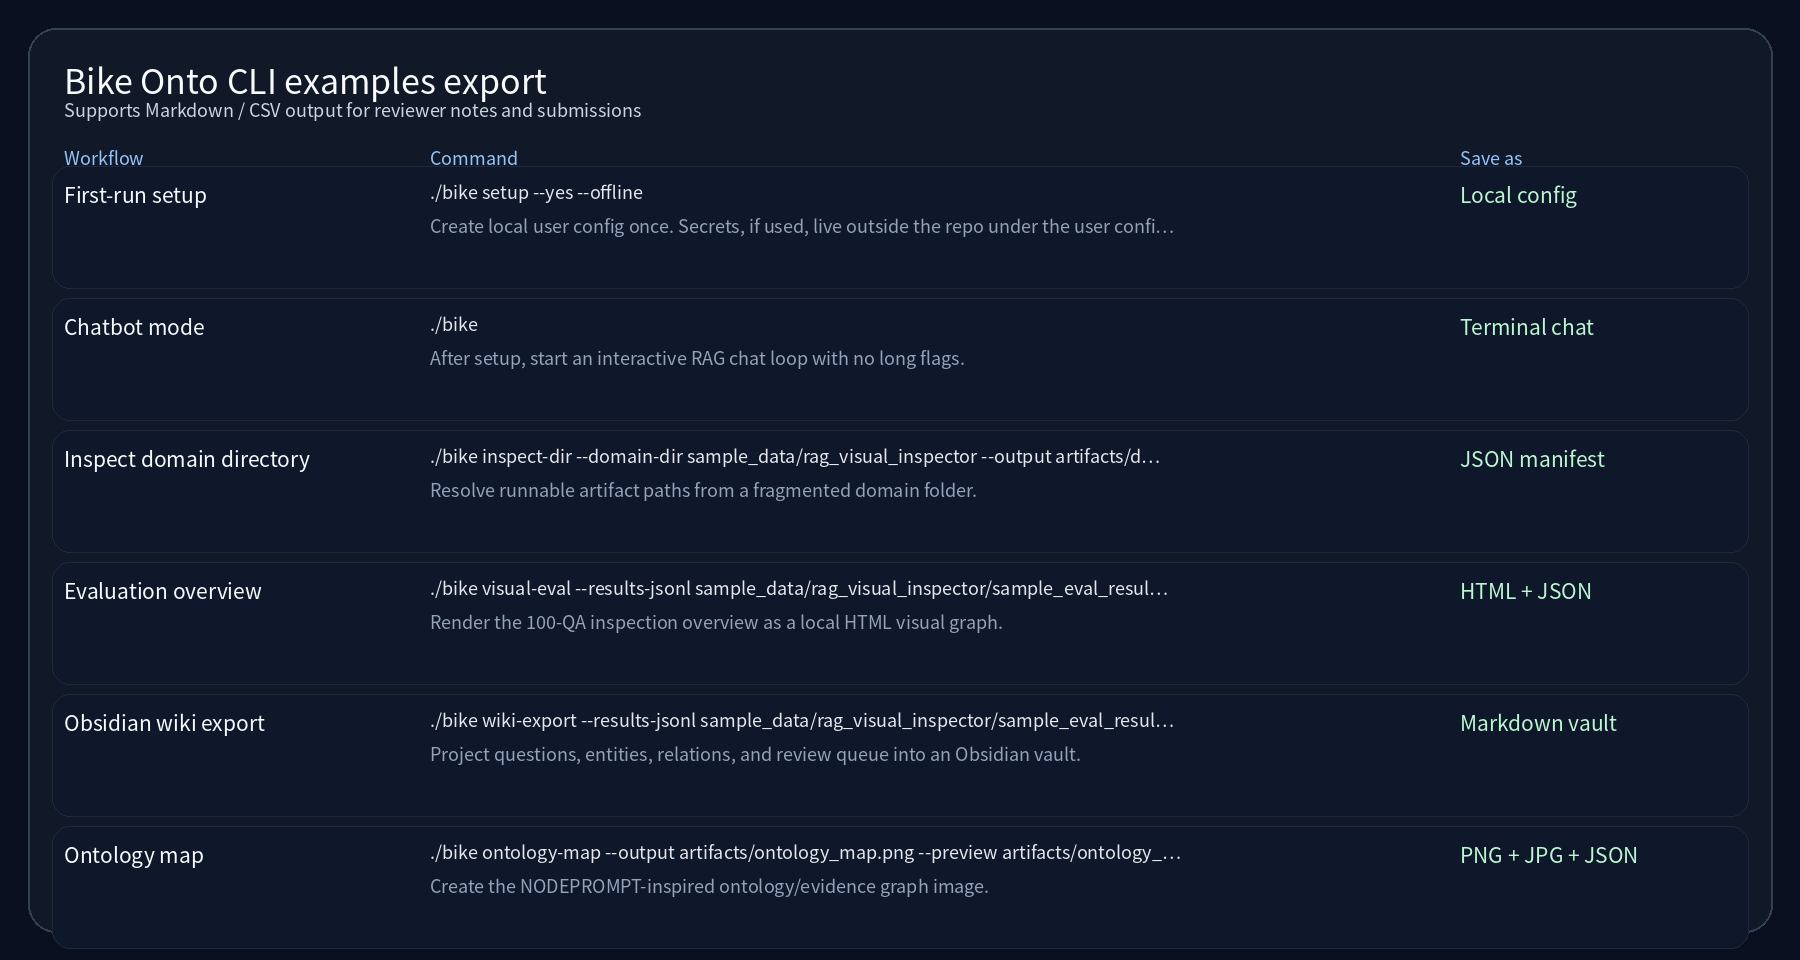
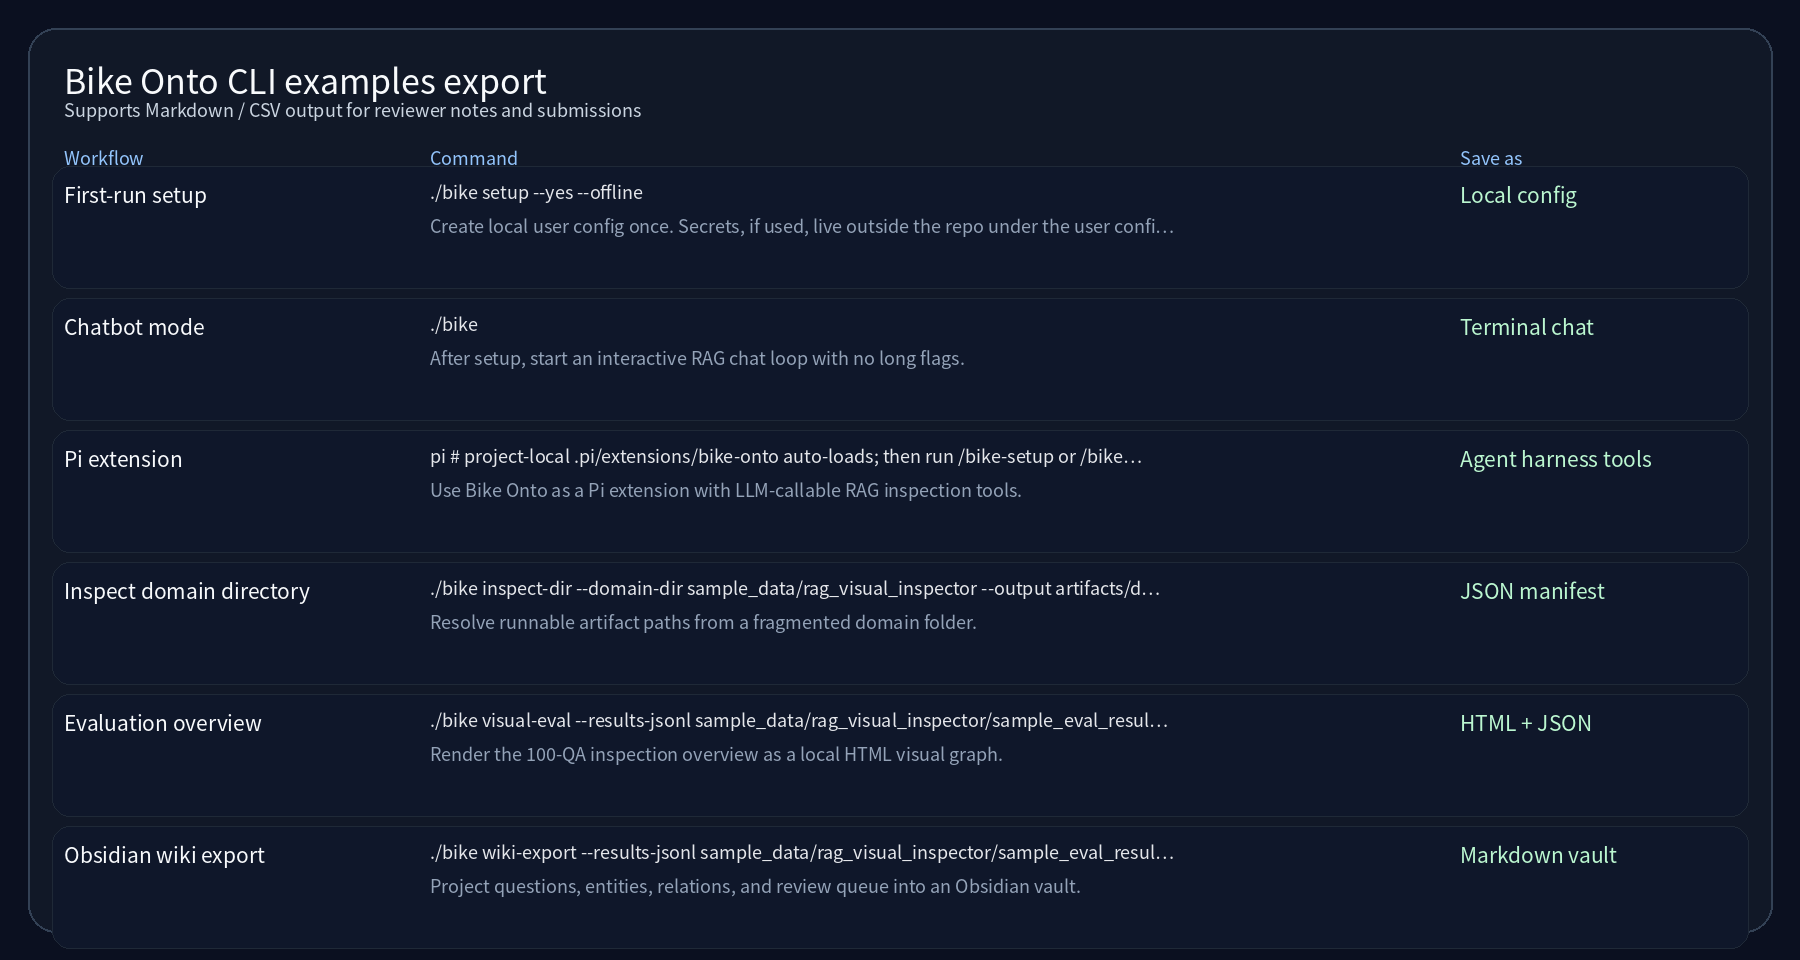
Add Pi extension for RAG inspection tools

diff --git a/.pi/extensions/bike-onto/index.ts b/.pi/extensions/bike-onto/index.ts
@@ -1,0 +1,239 @@
+// Timestamp: 2026-05-19 14:50:00
+
+import type { ExtensionAPI, ExtensionContext } from "@earendil-works/pi-coding-agent";
+import { Type } from "typebox";
+import { spawn } from "node:child_process";
+import { existsSync } from "node:fs";
+import { join } from "node:path";
+
+interface BikeRunResult {
+	code: number;
+	stdout: string;
+	stderr: string;
+	command: string[];
+}
+
+const MAX_OUTPUT_CHARS = 24_000;
+
+function clipOutput(value: string): string {
+	if (value.length <= MAX_OUTPUT_CHARS) return value;
+	return value.slice(0, MAX_OUTPUT_CHARS) + "\n... [truncated by Bike Onto pi extension]";
+}
+
+function bikeCommand(cwd: string): { command: string; argsPrefix: string[] } {
+	const bike = join(cwd, "bike");
+	const bikePs1 = join(cwd, "bike.ps1");
+	const cliRelativePath = "tools/scripts/rag/general_rag_cli.py";
+	const cli = join(cwd, ...cliRelativePath.split("/"));
+	if (process.platform === "win32" && existsSync(bikePs1)) {
+		return { command: "powershell.exe", argsPrefix: ["-ExecutionPolicy", "Bypass", "-File", bikePs1] };
+	}
+	if (existsSync(bike)) {
+		return { command: bike, argsPrefix: [] };
+	}
+	return { command: process.env.PYTHON || "python3", argsPrefix: [cli] };
+}
+
+function runBike(ctx: ExtensionContext, args: string[], options: { input?: string; env?: NodeJS.ProcessEnv } = {}): Promise<BikeRunResult> {
+	const resolved = bikeCommand(ctx.cwd);
+	const fullArgs = [...resolved.argsPrefix, ...args];
+	return new Promise((resolve, reject) => {
+		const child = spawn(resolved.command, fullArgs, {
+			cwd: ctx.cwd,
+			env: { ...process.env, ...(options.env || {}) },
+			stdio: [options.input ? "pipe" : "ignore", "pipe", "pipe"],
+		});
+		let stdout = "";
+		let stderr = "";
+		child.stdout.on("data", (chunk) => {
+			stdout += chunk.toString();
+		});
+		child.stderr.on("data", (chunk) => {
+			stderr += chunk.toString();
+		});
+		child.on("error", reject);
+		child.on("close", (code) => {
+			resolve({
+				code: code ?? 0,
+				stdout: clipOutput(stdout),
+				stderr: clipOutput(stderr),
+				command: [resolved.command, ...fullArgs],
+			});
+		});
+		if (options.input && child.stdin) {
+			child.stdin.write(options.input);
+			child.stdin.end();
+		}
+	});
+}
+
+function toolText(result: BikeRunResult): string {
+	const body = result.stdout.trim() || result.stderr.trim() || "(no output)";
+	return result.code === 0 ? body : `Bike Onto command failed (${result.code})\n\n${body}`;
+}
+
+function jsonFromStdout(result: BikeRunResult): unknown {
+	try {
+		return JSON.parse(result.stdout);
+	} catch {
+		return undefined;
+	}
+}
+
+function registerCommands(pi: ExtensionAPI) {
+	pi.registerCommand("bike-setup", {
+		description: "Run Bike Onto first-run setup wizard for this project",
+		handler: async (_args, ctx) => {
+			if (!ctx.hasUI) {
+				const result = await runBike(ctx, ["setup", "--yes", "--offline"]);
+				ctx.ui.notify(toolText(result), result.code === 0 ? "info" : "error");
+				return;
+			}
+			const mode = await ctx.ui.select("Bike Onto setup mode", ["offline", "live"]);
+			if (!mode) return;
+			const args = ["setup", "--yes", mode === "live" ? "--live" : "--offline"];
+			if (mode === "live" && !process.env.OPENAI_API_KEY) {
+				ctx.ui.notify("OPENAI_API_KEY is not set. Set it before launching pi, then run /bike-setup again.", "warning");
+				return;
+			}
+			const result = await runBike(ctx, args);
+			ctx.ui.notify(toolText(result), result.code === 0 ? "info" : "error");
+		},
+	});
+
+	pi.registerCommand("bike-status", {
+		description: "Show Bike Onto local setup status without printing secrets",
+		handler: async (_args, ctx) => {
+			const result = await runBike(ctx, ["status"]);
+			ctx.ui.notify(toolText(result), result.code === 0 ? "info" : "error");
+		},
+	});
+
+	pi.registerCommand("bike-tools", {
+		description: "List Bike Onto extension tools",
+		handler: async (_args, ctx) => {
+			ctx.ui.notify(
+				[
+					"Bike Onto tools:",
+					"- bike_rag_answer: answer a question with inspection payload",
+					"- bike_visual_inspect: create single-answer Visual Inspector HTML",
+					"- bike_ontology_map: create NODEPROMPT-inspired ontology map",
+					"- bike_wiki_export: export evaluation results as Obsidian wiki notes",
+					"Config/secrets live outside repo under ~/.bike-onto",
+				].join("\n"),
+				"info",
+			);
+		},
+	});
+}
+
+function registerTools(pi: ExtensionAPI) {
+	pi.registerTool({
+		name: "bike_rag_answer",
+		label: "Bike Onto RAG Answer",
+		description: "Ask Bike Onto one RAG inspection question and return the grounded answer payload.",
+		promptSnippet: "Use bike_rag_answer when the user asks a domain/RAG question that should be grounded with Bike Onto evidence.",
+		promptGuidelines: [
+			"Prefer this tool over ad-hoc guessing for Bike Onto or RAG inspection questions.",
+			"Summarize the answer, review gate, and key evidence after the tool returns.",
+		],
+		parameters: Type.Object({
+			question: Type.String({ description: "User question to ask Bike Onto" }),
+			category: Type.Optional(Type.String({ description: "Optional answer policy/category hint" })),
+			verbose: Type.Optional(Type.Boolean({ description: "Return verbose terminal sections in addition to JSON details", default: false })),
+		}),
+		async execute(_toolCallId, params, _signal, _onUpdate, ctx) {
+			const args = ["ask", params.question, "--json"];
+			if (params.category) args.push("--category", params.category);
+			const result = await runBike(ctx, args);
+			const details = jsonFromStdout(result) ?? { stdout: result.stdout, stderr: result.stderr };
+			if (params.verbose) {
+				const textResult = await runBike(ctx, ["ask", params.question, "--verbose"]);
+				return {
+					content: [{ type: "text", text: toolText(textResult) }],
+					details: { payload: details, command: result.command, verboseCommand: textResult.command },
+				};
+			}
+			return {
+				content: [{ type: "text", text: toolText(result) }],
+				details: { payload: details, command: result.command },
+			};
+		},
+	});
+
+	pi.registerTool({
+		name: "bike_visual_inspect",
+		label: "Bike Onto Visual Inspector",
+		description: "Generate a single-answer RAG Visual Inspector HTML artifact for a question.",
+		parameters: Type.Object({
+			question: Type.String({ description: "Question to answer and inspect" }),
+			output: Type.Optional(Type.String({ description: "Output HTML path", default: "artifacts/pi_extension/visual_inspector.html" })),
+		}),
+		async execute(_toolCallId, params, _signal, _onUpdate, ctx) {
+			const output = params.output || `artifacts/pi_extension/visual_${Date.now()}.html`;
+			const graphJson = output.replace(/\.html?$/i, ".visual_graph.json");
+			const result = await runBike(ctx, ["visual", "--question", params.question, "--output", output, "--graph-json", graphJson, "--json"]);
+			return {
+				content: [{ type: "text", text: toolText(result) }],
+				details: { payload: jsonFromStdout(result), output, graphJson, command: result.command },
+			};
+		},
+	});
+
+	pi.registerTool({
+		name: "bike_ontology_map",
+		label: "Bike Onto Ontology Map",
+		description: "Generate a NODEPROMPT-inspired ontology/evidence graph image artifact.",
+		parameters: Type.Object({
+			output: Type.Optional(Type.String({ description: "Output PNG path", default: "artifacts/pi_extension/ontology_map.png" })),
+			preview: Type.Optional(Type.String({ description: "Optional preview JPG path" })),
+			graphJson: Type.Optional(Type.String({ description: "Optional graph JSON path" })),
+		}),
+		async execute(_toolCallId, params, _signal, _onUpdate, ctx) {
+			const output = params.output || "artifacts/pi_extension/ontology_map.png";
+			const preview = params.preview || output.replace(/\.png$/i, "_preview.jpg");
+			const graphJson = params.graphJson || output.replace(/\.png$/i, ".json");
+			const result = await runBike(ctx, ["ontology-map", "--output", output, "--preview", preview, "--graph-json", graphJson, "--json"]);
+			return {
+				content: [{ type: "text", text: toolText(result) }],
+				details: { payload: jsonFromStdout(result), output, preview, graphJson, command: result.command },
+			};
+		},
+	});
+
+	pi.registerTool({
+		name: "bike_wiki_export",
+		label: "Bike Onto Wiki Export",
+		description: "Export RAG evaluation results into an Obsidian ontology-like wiki vault.",
+		parameters: Type.Object({
+			resultsJsonl: Type.String({ description: "Evaluation results JSONL path" }),
+			graphJson: Type.Optional(Type.String({ description: "Optional VisualGraphPayload JSON path" })),
+			vault: Type.String({ description: "Output Obsidian vault path" }),
+			runId: Type.Optional(Type.String({ description: "Run identifier", default: "pi_extension_run" })),
+		}),
+		async execute(_toolCallId, params, _signal, _onUpdate, ctx) {
+			if (ctx.hasUI) {
+				const ok = await ctx.ui.confirm("Bike Onto wiki export", `Write Obsidian wiki notes to ${params.vault}?`);
+				if (!ok) {
+					return { content: [{ type: "text", text: "Wiki export cancelled by user." }], details: { cancelled: true } };
+				}
+			}
+			const args = ["wiki-export", "--results-jsonl", params.resultsJsonl, "--vault", params.vault, "--run-id", params.runId || "pi_extension_run", "--json"];
+			if (params.graphJson) args.push("--graph-json", params.graphJson);
+			const result = await runBike(ctx, args);
+			return {
+				content: [{ type: "text", text: toolText(result) }],
+				details: { payload: jsonFromStdout(result), command: result.command },
+			};
+		},
+	});
+}
+
+export default function bikeOntoExtension(pi: ExtensionAPI) {
+	registerCommands(pi);
+	registerTools(pi);
+
+	pi.on("session_start", async (_event, ctx) => {
+		ctx.ui.setStatus("bike-onto", "Bike Onto extension loaded");
+	});
+}

diff --git a/tools/tests/test_pi_extension.py b/tools/tests/test_pi_extension.py
@@ -1,0 +1,33 @@
+# Timestamp: 2026-05-19 14:47:00
+
+from __future__ import annotations
+
+from pathlib import Path
+
+
+REPO_ROOT = Path(__file__).resolve().parents[2]
+EXTENSION_PATH = REPO_ROOT / ".pi" / "extensions" / "bike-onto" / "index.ts"
+
+
+def test_bike_onto_pi_extension_registers_commands_and_tools() -> None:
+    source = EXTENSION_PATH.read_text(encoding="utf-8")
+
+    for command in ["bike-setup", "bike-status", "bike-tools"]:
+        assert f'pi.registerCommand("{command}"' in source
+
+    for tool in ["bike_rag_answer", "bike_visual_inspect", "bike_ontology_map", "bike_wiki_export"]:
+        assert f'name: "{tool}"' in source
+
+    assert "ctx.ui.confirm" in source
+    assert "ctx.ui.select" in source
+    assert "runBike" in source
+    assert "tools/scripts/rag/general_rag_cli.py" in source
+
+
+def test_bike_onto_pi_extension_keeps_secret_handling_outside_repo() -> None:
+    source = EXTENSION_PATH.read_text(encoding="utf-8")
+
+    assert "OPENAI_API_KEY" in source
+    assert "~/.bike-onto" in source
+    assert "apiKey" not in source
+    assert "sk-" not in source

diff --git a/tools/scripts/rag/general_rag_cli.py b/tools/scripts/rag/general_rag_cli.py
@@ -1458,6 +1458,12 @@ def build_cli_example_rows() -> list[dict[str, str]]:
             "save_as": "Terminal chat",
         },
         {
+            "workflow": "Pi extension",
+            "command": "pi  # project-local .pi/extensions/bike-onto auto-loads; then run /bike-setup or /bike-tools",
+            "purpose": "Use Bike Onto as a Pi extension with LLM-callable RAG inspection tools.",
+            "save_as": "Agent harness tools",
+        },
+        {
             "workflow": "Inspect domain directory",
             "command": "./bike inspect-dir --domain-dir sample_data/rag_visual_inspector --output artifacts/domain_manifest.json --json",
             "purpose": "Resolve runnable artifact paths from a fragmented domain folder.",

diff --git a/docs/cli_examples.md b/docs/cli_examples.md
@@ -6,6 +6,7 @@ These examples are portfolio-friendly commands for the core OBYBK / Bike Onto wo
 |---|---|---|---|
 | First-run setup | `./bike setup --yes --offline` | Create local user config once. Secrets, if used, live outside the repo under the user config directory. | Local config |
 | Chatbot mode | `./bike` | After setup, start an interactive RAG chat loop with no long flags. | Terminal chat |
+| Pi extension | `pi  # project-local .pi/extensions/bike-onto auto-loads; then run /bike-setup or /bike-tools` | Use Bike Onto as a Pi extension with LLM-callable RAG inspection tools. | Agent harness tools |
 | Inspect domain directory | `./bike inspect-dir --domain-dir sample_data/rag_visual_inspector --output artifacts/domain_manifest.json --json` | Resolve runnable artifact paths from a fragmented domain folder. | JSON manifest |
 | Evaluation overview | `./bike visual-eval --results-jsonl sample_data/rag_visual_inspector/sample_eval_results.jsonl --output artifacts/evaluation_overview.html --graph-json artifacts/evaluation_overview.visual_graph.json --json` | Render the 100-QA inspection overview as a local HTML visual graph. | HTML + JSON |
 | Obsidian wiki export | `./bike wiki-export --results-jsonl sample_data/rag_visual_inspector/sample_eval_results.jsonl --graph-json sample_data/rag_visual_inspector/sample_visual_graph.json --vault artifacts/OBYBK_RAG_Wiki --run-id demo_run --json` | Project questions, entities, relations, and review queue into an Obsidian vault. | Markdown vault |